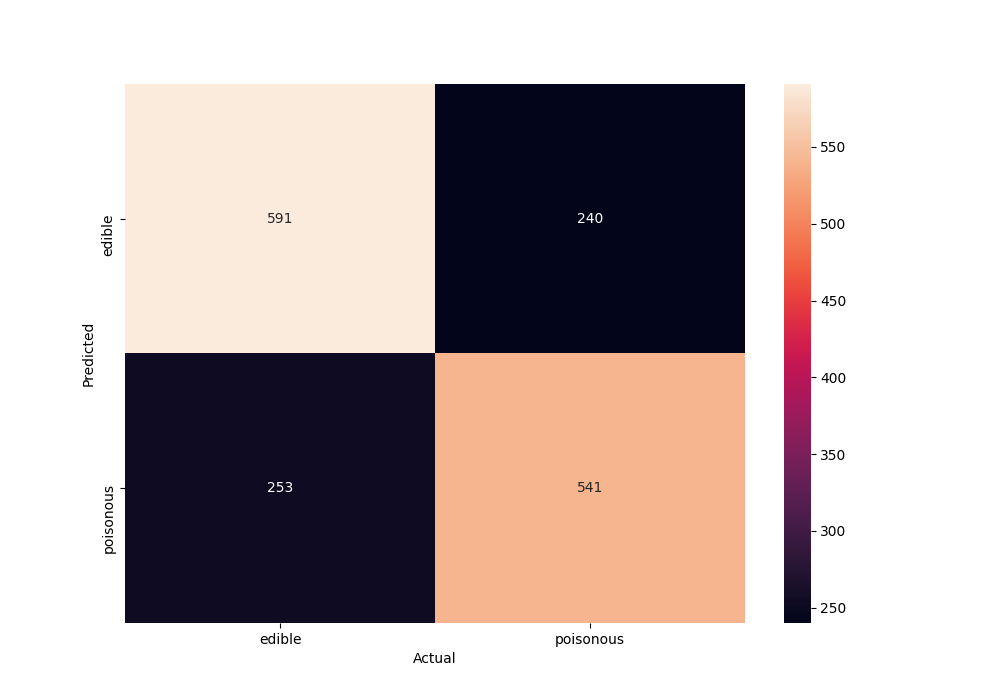
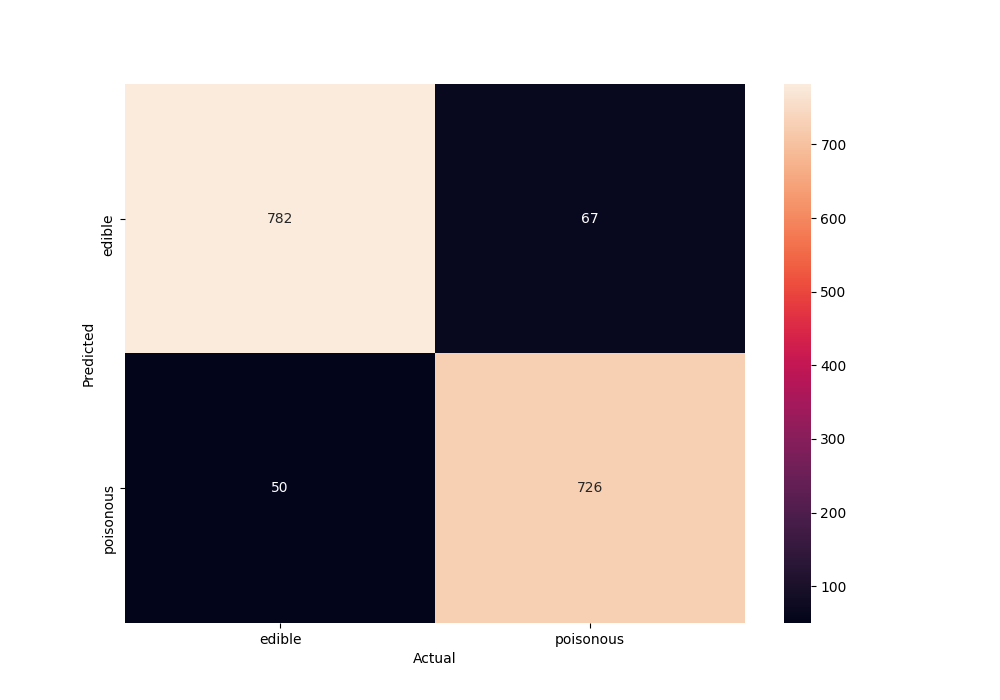
confusing matrixes are plotted from best prediction from k-fold

diff --git a/decision_tree.py b/decision_tree.py
@@ -38,6 +38,7 @@ def do_decision_tree(df):
     accuracies = []
 
     best_predictions = pd.DataFrame([], columns=get_class_column_names())
+    best_test_labels = pd.DataFrame([], columns=get_class_column_names())
 
     dt = DecisionTreeClassifier(random_state=0, max_depth=4)
 
@@ -64,19 +65,22 @@ def do_decision_tree(df):
 
         accuracies.append(accuracy)
 
-        if len(accuracies) == 0 or accuracy >= max(accuracies):
+        if accuracy >= max(accuracies):
             best_predictions = pd.DataFrame(
                 predictions, columns=get_class_column_names()
             )
+            best_test_labels = pd.DataFrame(
+                test_labels, columns=get_class_column_names()
+            )
 
-    predictions = pd.DataFrame(predictions, columns=get_class_column_names())
+    # best_predictions = pd.DataFrame(predictions, columns=get_class_column_names())
 
-    predictions = predictions.idxmax(axis=1)
-    test_labels = test_labels.idxmax(axis=1)
+    best_predictions = best_predictions.idxmax(axis=1)
+    best_test_labels = best_test_labels.idxmax(axis=1)
 
     df_cm = pd.DataFrame(
         metrics.confusion_matrix(
-            predictions, test_labels, labels=get_class_column_names()
+            best_predictions, best_test_labels, labels=get_class_column_names()
         ),
         index=cm_labels,
         columns=cm_labels,

diff --git a/naive_bayes.py b/naive_bayes.py
@@ -33,6 +33,7 @@ def do_naive_bayes(df):
     accuracies = []
 
     best_predictions = pd.DataFrame([], columns=class_column)
+    best_test_labels = pd.DataFrame([], columns=class_column)
 
     model = GaussianNB()
 
@@ -55,21 +56,22 @@ def do_naive_bayes(df):
 
         predictions = model.predict(test_features)
 
-        accuracy = metrics.accuracy_score(test_labels, predictions)
+        accuracy = metrics.accuracy_score(predictions, test_labels)
 
         accuracies.append(accuracy)
 
         # print(accuracy > max(accuracies))
         # print(len(accuracies))
 
-        if len(accuracies) == 0 or accuracy >= max(accuracies):
+        if accuracy >= max(accuracies):
             best_predictions = pd.DataFrame(predictions, columns=class_column)
+            best_test_labels = pd.DataFrame(test_labels, columns=class_column)
 
     print("K-fold results: ", accuracies)
     print("Mean accuracy: ", np.mean(accuracies))
 
     df_cm = pd.DataFrame(
-        metrics.confusion_matrix(best_predictions, test_labels, labels=[0, 1]),
+        metrics.confusion_matrix(best_predictions, best_test_labels, labels=[0, 1]),
         index=cm_labels,
         columns=cm_labels,
     )
